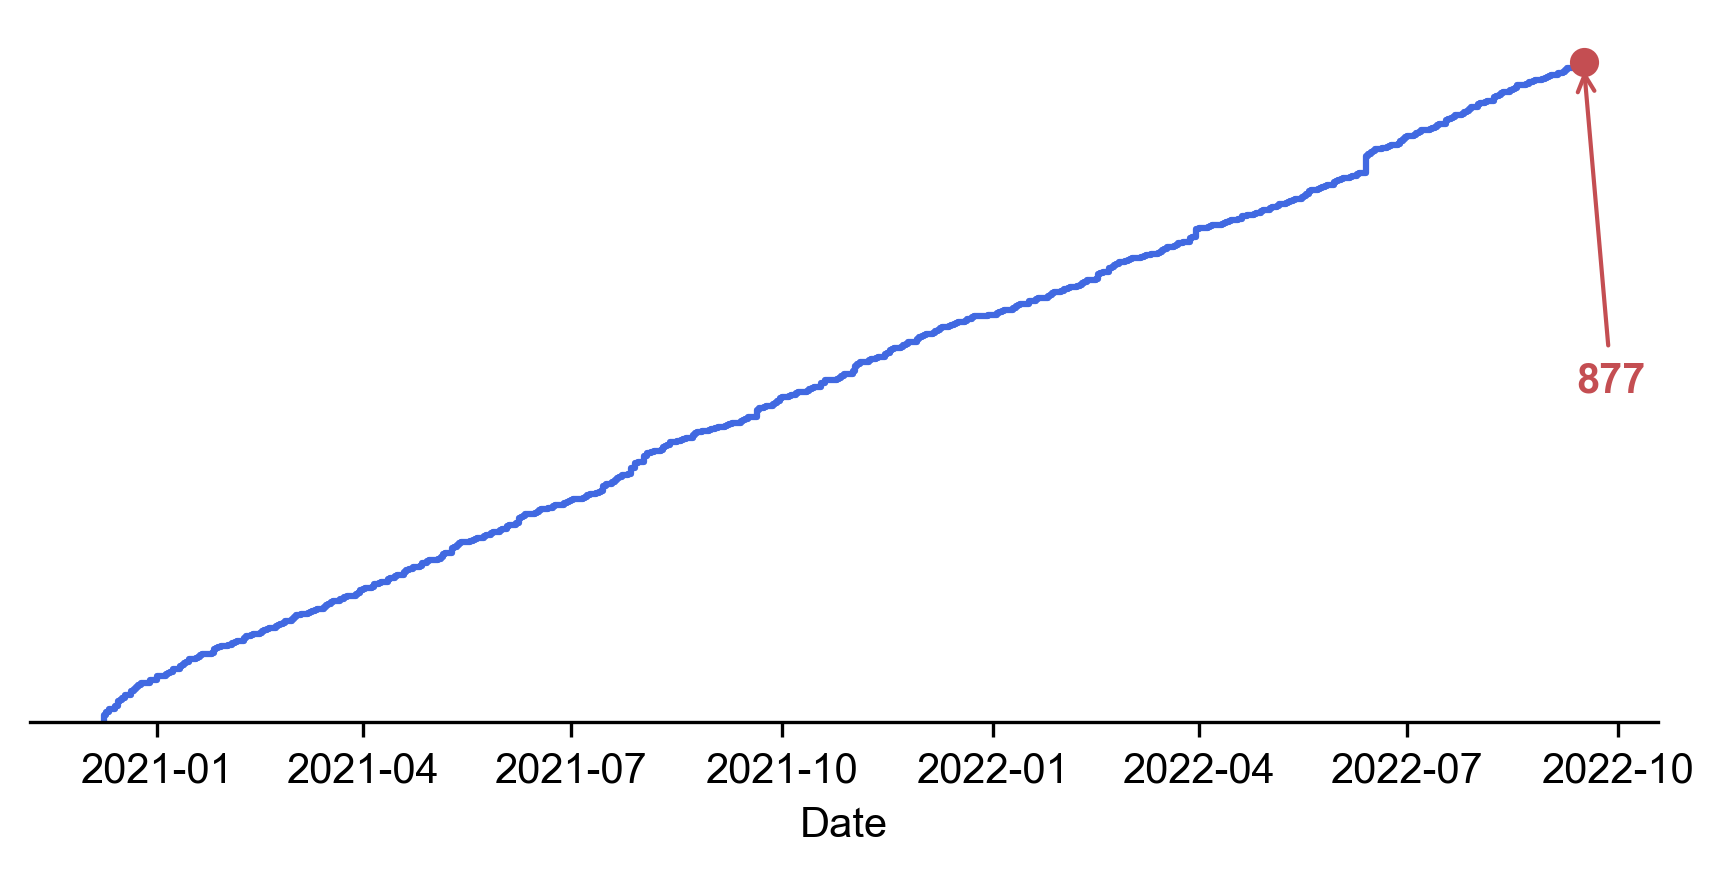
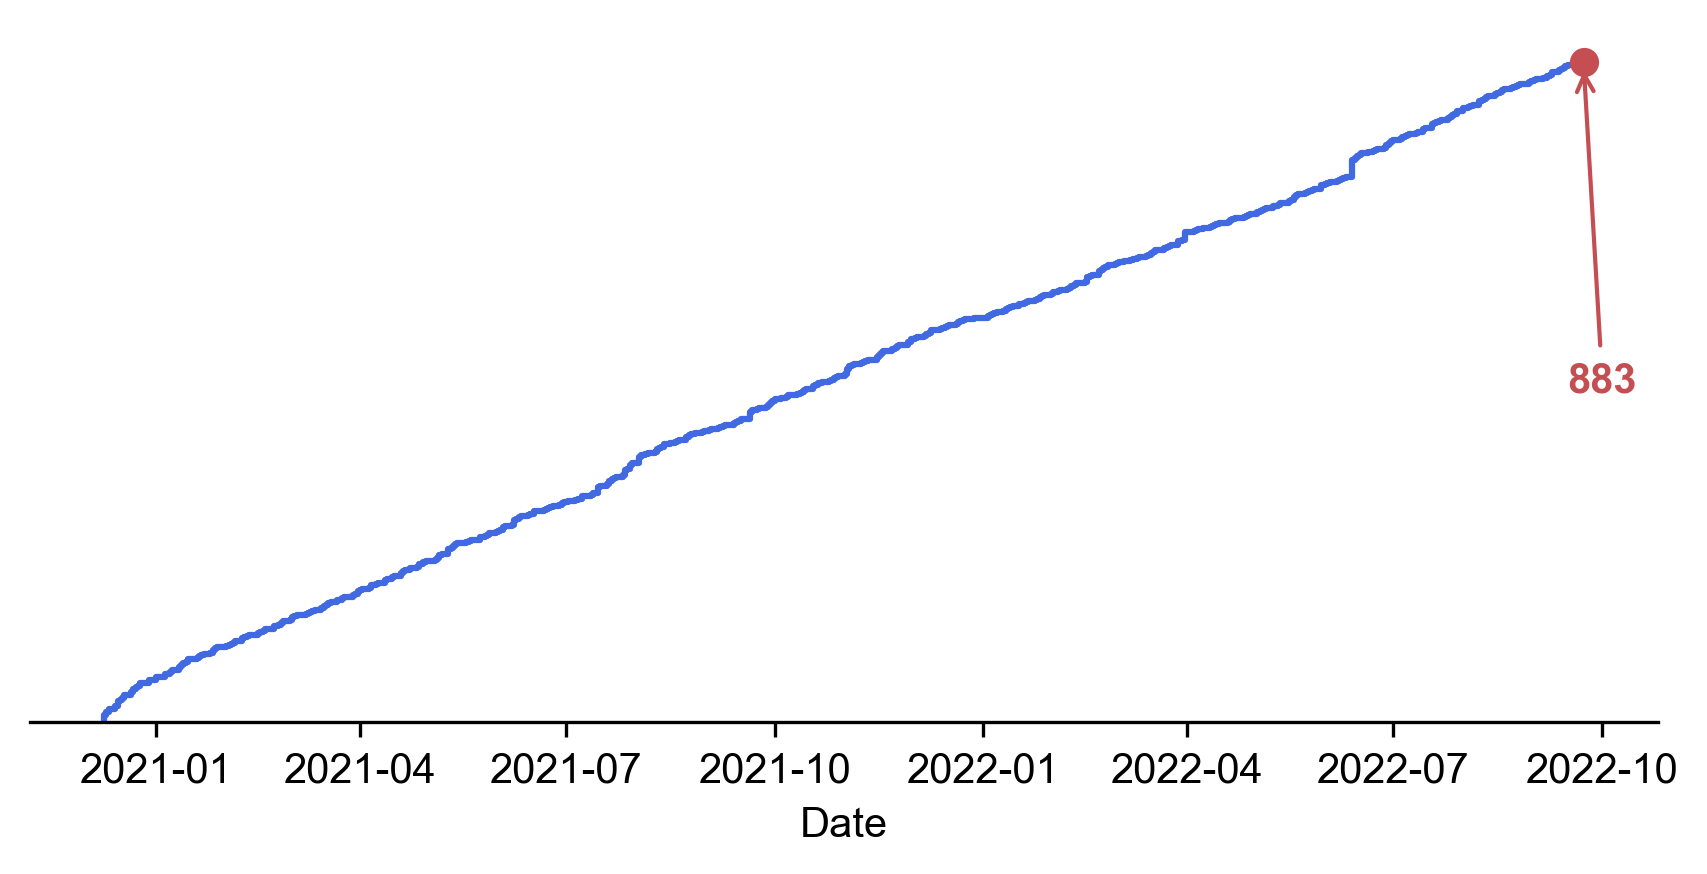
2022-09-23

diff --git a/2022/09/AstroPH-2022-09.md b/2022/09/AstroPH-2022-09.md
@@ -172,3 +172,51 @@
 
 ## 2022-09-19
 
+1. [Toward an understanding of the properties of neural network approaches for supernovae light curve approximation](https://arxiv.org/abs/2209.07542)
+
+   > Stellar, Light Curve, Machine Learning
+
+   用`多层感知机`、`贝叶斯神经网络`、`Normalizing`等在`PLAsTiCC`的模拟数据和`ZTF`的真实光变曲线数据上进行训练和测试，以估计变源的类型和光变峰值。NN比一般的高斯过程计算复杂度低，并且可以得到类似的计算准确度。代码在这里，叫[Fulu](https://github.com/HSE-LAMBDA/fulu)。
+
+2. [Fourier Domain](https://arxiv.org/abs/2209.07954)
+
+   > Time Series, Fourier Analysis
+
+   周期性和准周期性是系统中基本时间尺度的指标，随机过程有助于揭示湍流吸积过程的性质。是`Timing Analysis" of the "Handbook of X-ray and Gamma-ray Astrophysics`的一章，讲傅立叶分析时间序列的相关方法。
+
+## 2022-09-20
+
+1. [Gaussian Process regression for astronomical time-series](https://arxiv.org/abs/2209.08940)
+
+   > Time Series, Gaussian Process
+
+   用`高斯过程`对时间序列数据建模的综述。介绍了GP的基本数学理论，给出建模时参数选择的建议。回顾了GP在从系外行星导活动星系核的时域数据集上的应用，文章里演示的代码在[这里](https://github.com/dfm/araa-gps)，由[showyourwork](https://github.com/showyourwork/showyourwork)建立。
+
+## 2022-09-21
+
+1. [Baseline correction for FAST radio recombination lines: a modified penalized least squares smoothing technique](https://arxiv.org/abs/2209.09555)
+
+   > Radio, Baseline Correction, Method
+
+   基于`AsLS/arPLS/asPLS`写出来的`rrlPLS`，用于FAST探测`recombination lines`消除RFI使用。
+
+## 2022-09-22
+
+1. [Semi-Supervised Classification and Clustering Analysis for Variable Stars](https://arxiv.org/abs/2209.09957)
+
+   > Stellar, Variable, Machine Learning
+
+   用半监督的方法在`Optical Gravitational Lensing Experiment`、`Catalina Sky Surveys`、`Gaia`的光变曲线数据上做分类。
+
+   步骤是：特征预处理，用`umap`降维后变成二分类的数据，监督训练`umap`转换矩阵，用转换矩阵转换多维数据到两团，用`Radial Basis Function`核的支持向量机训练分类器，最后用SVM预测没打标签的数据。
+
+## 2022-09-23
+
+1. [Comets and meteor showers](https://arxiv.org/abs/2209.10654)
+
+   > Comet, Meteor Shower
+
+   在这一章中，讨论了流星科学的发展和现状，重点是它作为研究彗星的工具的作用，并回顾已经建立的彗星-流星雨之间的联系。
+
+## 2022-09-26
+
